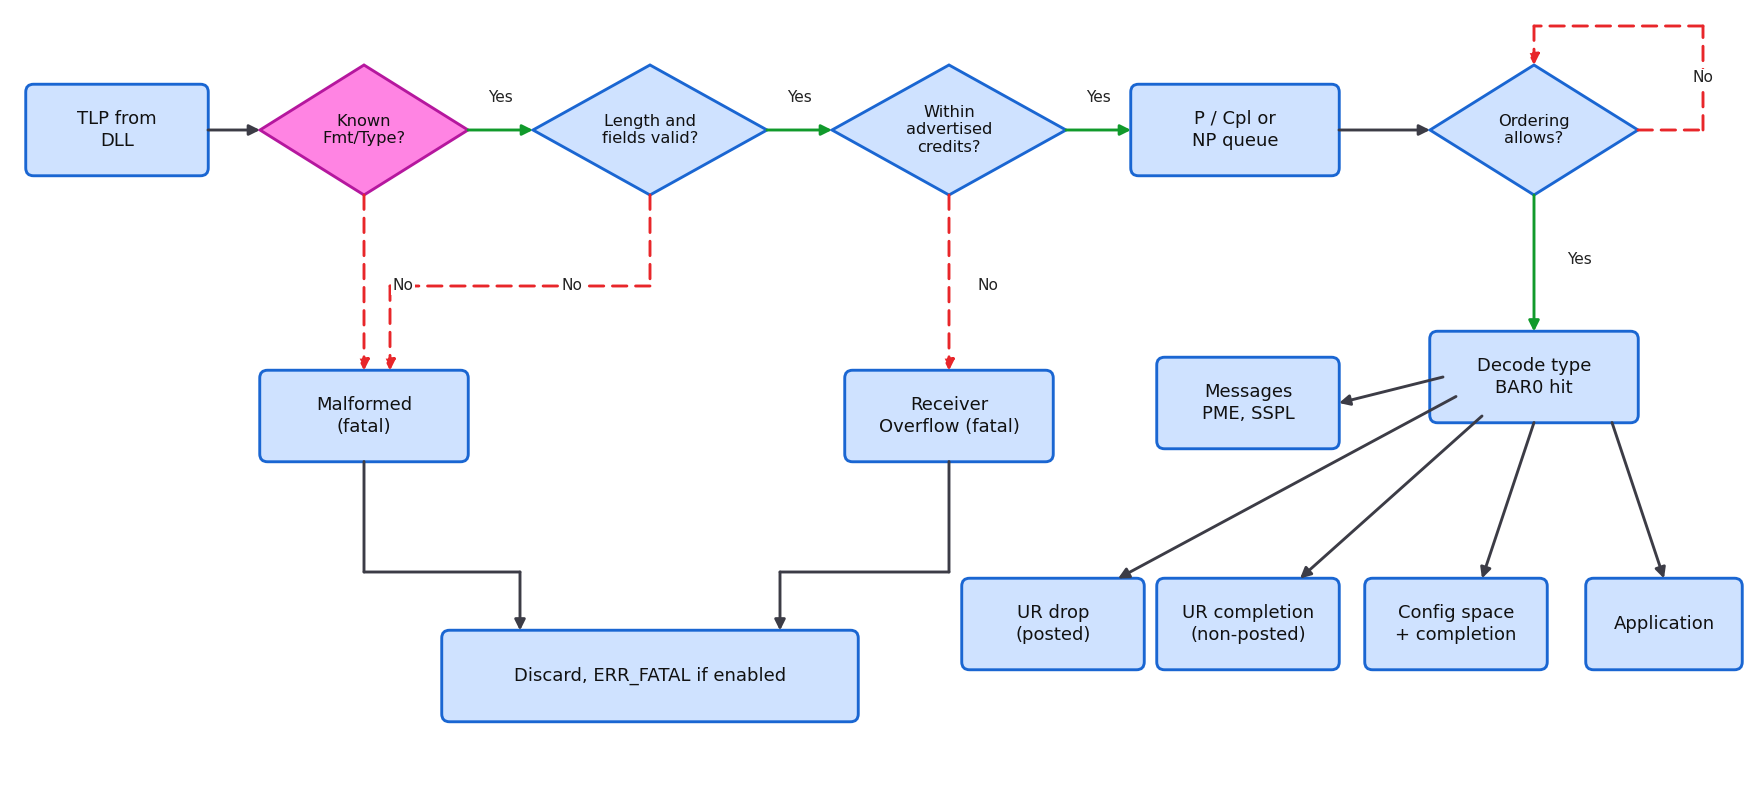
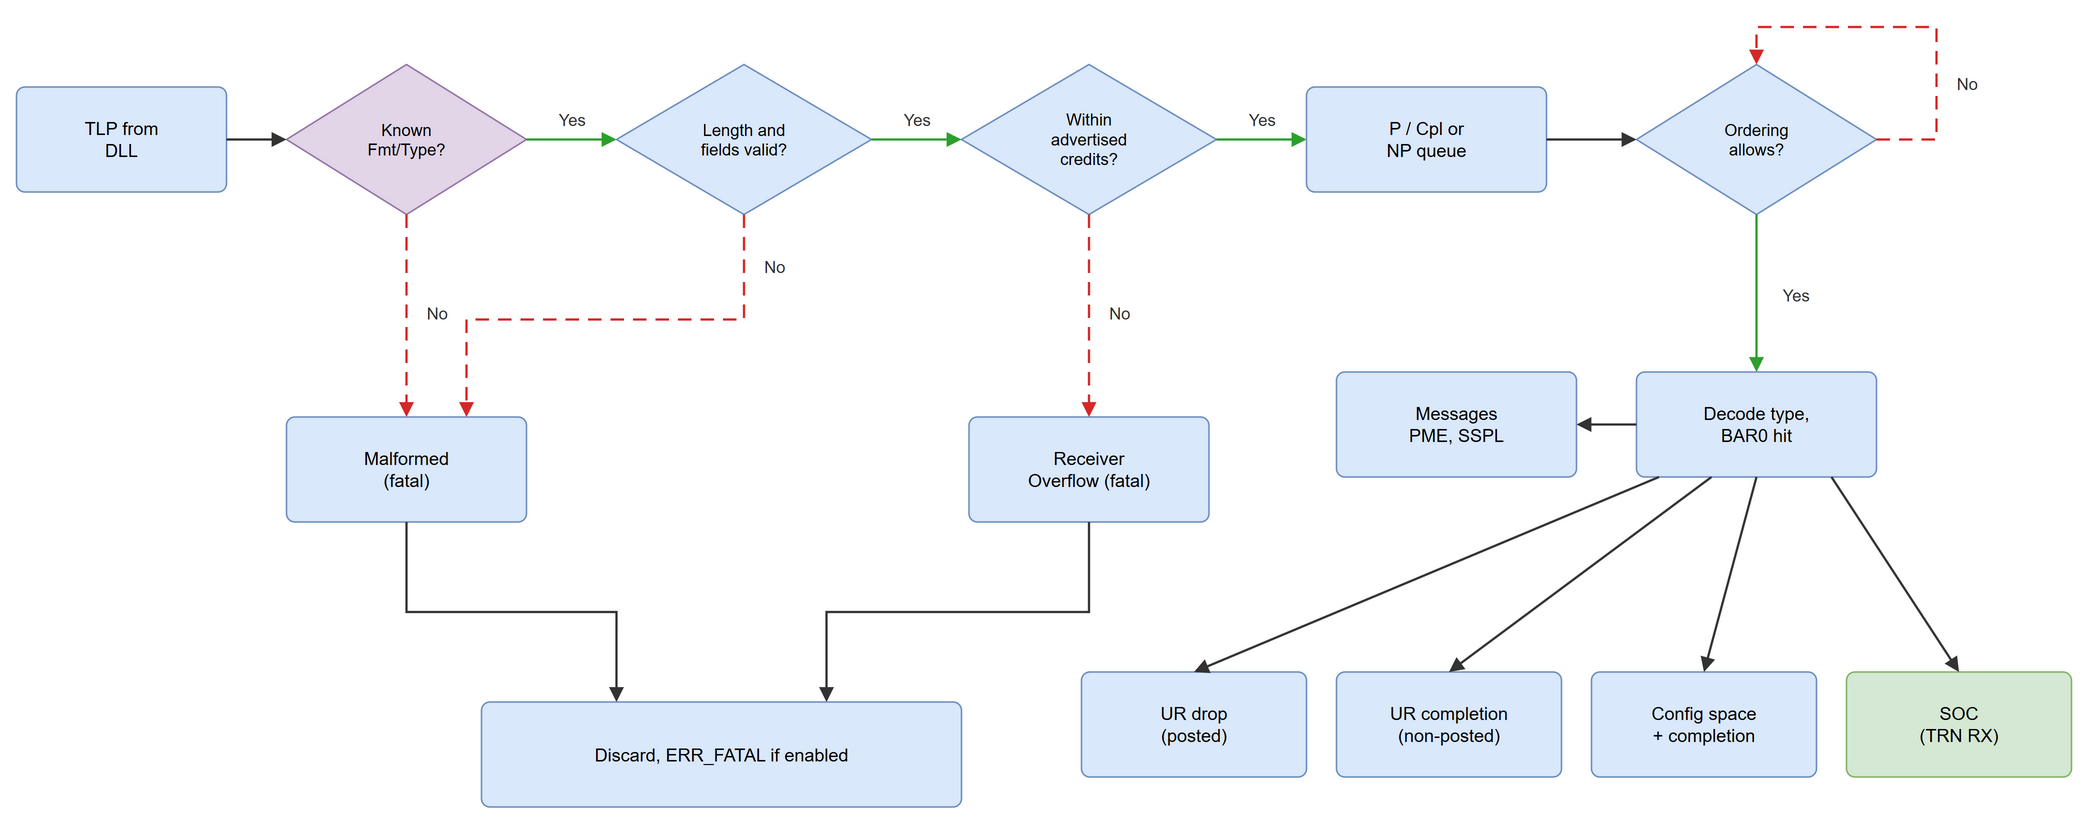
TL pictures: draw.io sources, redrawn for trn_if and trn_bridge

diff --git a/2.rtl/5.tlp/README.md b/2.rtl/5.tlp/README.md
@@ -5,7 +5,7 @@ The **Transaction Layer (TL)** sits between the SOC above and the **Data Link La
 
 The TL is an Endpoint, function 0, single virtual channel (VC0), with one 32-bit memory BAR. Its user interface is the one of the AMD `PCIE_2_1` hard block in EP mode ([UG477](../../0.doc/2.rtl/ug477_7Series_IntBlock_PCIe.pdf)): TLPs on the 64-bit TRN bus (`trn_if`), and the `cfg` sideband. Above it, `trn_bridge`, the same as on [openPCIE](https://github.com/chili-chips-ba/openPCIE), turns the TRN bus into the two 64-bit AXI-Stream streams of the SOC, as the AXI wrapper of `PCIE_2_1` does. It follows the PCI Express Base Specification 2.1.
 
-<img alt="Position of the Transaction Layer in the PCIe stack" src="./images/TL_Position.png" width=300 height=417 />
+<img alt="Position of the Transaction Layer in the PCIe stack" src="./images/TL_Position.png" width=300 height=414 />
 
 ## Architecture
 
